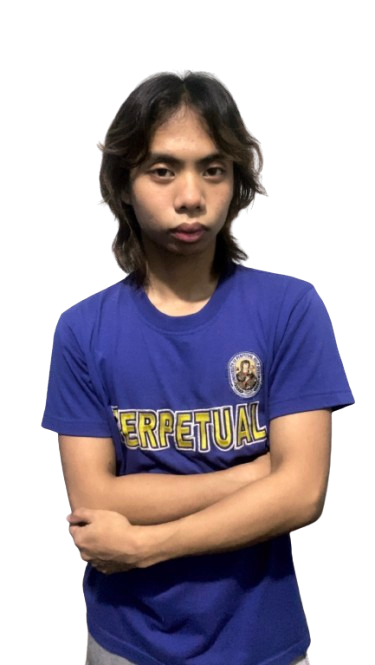
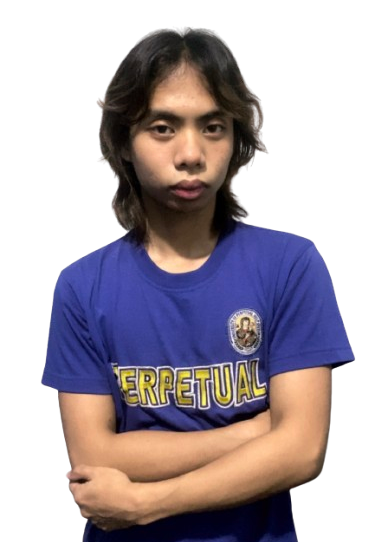
updated past events with pictures and normalized officer portraits

diff --git a/data/event.ts b/data/event.ts
@@ -11,6 +11,24 @@ type Event = {
 
 export const events: Event[] = [
   {
+    title: "Cryptita Plays Web3 SUI Workshop",
+    subtitle:
+      "A hands-on Web3 workshop designed to guide students and builders from theoretical concepts to active onchain development. Sessions focus on integrating web applications with smart contracts, managing wallet interactions, and deploying live applications to equip participants for real-world blockchain building.",
+    date: "August 23, 2026",
+    location: "",
+    type: EventType.WORKSHOP,
+    pictures: "/event/SUI Workshop",
+  },
+  {
+    title: "𝗦𝘁𝗮𝗿𝘁 𝗙𝗿𝗼𝗺 𝗭𝗲𝗿𝗼 𝘄𝗶𝘁𝗵 𝗞𝗶𝗿𝗼 – 𝗔𝗻 𝗜𝗻𝘁𝗿𝗼𝗱𝘂𝗰𝘁𝗶𝗼𝗻 𝘁𝗼 𝗞𝗶𝗿𝗼",
+    subtitle:
+      "An interactive, hands-on workshop designed to introduce developers to Kiro and the shift from standard AI coding to agentic engineering. Participants will learn how to integrate agentic workflows into their development toolkit, streamline problem-solving, and elevate their programming capabilities for modern software builds.",
+    date: "August 1, 2026",
+    location: "Macintosh Laboratory, UPHSL",
+    type: EventType.WORKSHOP,
+    pictures: "/event/Kiro",
+  },
+  {
     title: "Ideathon 2026",
     subtitle:
       "A competitive ideation event where students collaborate to solve real-world challenges using AWS solutions and architecture. Participants develop, refine, and pitch innovative ideas, building skills in creativity, teamwork, and problem solving.",

diff --git a/app/layout.tsx b/app/layout.tsx
@@ -9,7 +9,7 @@ export const metadata: Metadata = {
     default: 'AWS Student Builder Group - UPHSL | Amazon Web Services Student Community',
     template: '%s | AWS Student Builder Group - UPHSL'
   },
-  description: 'Official AWS Student Builder Group at University of Perpetual Help System Laguna (UPHSL) Biñan. Join our cloud computing community led by Zyrus Alvez, Renzo Ramos, and team. Learn AWS services, attend workshops, and build your tech career.',
+  description: 'Official AWS Student Builder Group at University of Perpetual Help System Laguna (UPHSL) Biñan. Join our cloud computing community led by Zyrus Alvez, Marc Casugbo, and team. Learn AWS services, attend workshops, and build your tech career.',
   keywords: [
     'AWS Student Builder Group',
     'AWS Student Builder Group UPHSL',
@@ -33,6 +33,24 @@ export const metadata: Metadata = {
     'Rain Jade De Castro',
     'Carl Angelo Hernandez',
     'Ram Andrei Manalo',
+    'Marc Angelo Casugbo',
+    'Gil Ashley Bien',
+    'Auxi Nicole Pongos',
+    'Zain Raza Khan',
+    'Norven Zaldy Carandang',
+    'Lucky Angel Guevarra',
+    'Allyza Shamel Hernandez',
+    'Don Santiago Sigue',
+    'Yzabel Claurie Nett Mallari',
+    'Claurenz Mallari',
+    'Jedidah Barcelona',
+    'Angela Shayne Montanez',
+    'Irish Nicole Montanez',
+    'Jasmine Fae Dictado',
+    'Kylle Vincent Amondina',
+    'Ann Louise Swift',
+    'Chloe Angielianna Alejo',
+    'Christopher James Nuqui',
     'University of Perpetual Help System Laguna',
     'UPHSL Biñan',
     'AWS Workshops',

diff --git a/component/Team.tsx b/component/Team.tsx
@@ -7,7 +7,7 @@ import ArrowRight from "@/component/UI/ArrowRight";
 
 const members = [
   { name: "Marc Angelo Casugbo", role: "President", img: "/data/New Officers/Marc Angelo Casugbo - President.png" },
-  { name: "Rain Jade De Castro", role: "Vice President", img: "/data/New Officers/Rain Jade De Castro - Vice President.png" },
+  { name: "Rain Jade De Castro", role: "Vice President", img: "/data/New Officers/Rain Jade De Castro - Vice President.webp" },
   { name: "Zain Raza Khan", role: "Head of Operations (HO)", img: "/data/New Officers/Zain Raza Khan - Head of Operations (HO).png" },
   { name: "Trisha Biglete", role: "Head of Relations and Community Outreach (HRC)", img: "/data/New Officers/Trisha Biglete - Head of Relations and Community Outreach (HRC).png" },
   { name: "Alyssa Marie Valera", role: "Head of Marketing and Multimedia (HMM)", img: "/data/New Officers/Alyssa Marie Valera - Head of Marketing and Multimedia (HMM).png" },
